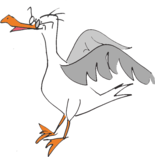
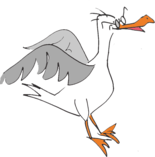
Support for local text, Updated images for Glenn Allow Glenn to change depending on the button pressed

diff --git a/javascript/main.js b/javascript/main.js
@@ -4,6 +4,7 @@ if (!backend.getList) {
 }
 
 var trans = new Translations;
+var text = new Texts;
 var registrator = new Registrator;
 var isLoggedIn = false;
 var isAdmin = false;
@@ -96,9 +97,17 @@ function populateMainContent(what) {
   showingWhat = what;
   backend.getText(what, language, callback);
 
-  function callback(text) {
-    doShow(what, text);
+  function callback(s) {
+    doShow(what, s);
   }
+
+}
+
+function populateMainContent_(what) {
+
+  showingWhat = what;
+  var s = text.get(what, language);
+  doShow(what, s);
 
 }
 
@@ -128,7 +137,7 @@ function populateSubMenu(mnuRows) {
         theme = mnuRow.theme;
         cssClass += " "+theme;
     }
-    var html="<div id='"+mnuRow.id+"' class='"+cssClass+"' title='"+label+"' theme='"+theme+"'>"+label+"</div><br>\n";
+    var html="<div id='"+mnuRow.id+"' class='"+cssClass+"' title='"+label+"' theme='"+theme+"'>"+label+"</div>\n";
     $("#submenu").append(html);
     $('#'+mnuRow.id).click(mnuRow.function);
   }
@@ -214,12 +223,14 @@ function doShowAGM() {
 
 function doShowMensaGbg() {
   menuClose("mnuMensaGbg");
+  changeLogo("kavat");
   changeTheme("default");
   populateMainContent("mensa_gothenburg");
 }
 
 function doShowAboutGbg() {
   menuClose("mnuGothenburg");
+  changeLogo("kavat");
   changeTheme("default");
   populateMainContent("about_gothenburg");
 }
@@ -227,7 +238,7 @@ function doShowAboutGbg() {
 function doShowAboutVasttrafik() {
     
   menuClose("mnuVasttrafik");
-  changeLogo("travolta");
+  changeLogo("kavat");
   changeTheme("default");
   populateMainContent("about_vasttrafik");
 }
@@ -245,6 +256,7 @@ function doShowAboutHotel() {
 
 function doShowActivitiesPage() {
   menuClose("mnuActivities");
+  changeLogo("kavat");
   changeTheme("yellow");
   populateMainContent("members_activities");
 }
@@ -264,6 +276,7 @@ function doShowForgotPasswordPage() {
 
 function doShowContact() {
   menuClose("mnuContact");
+  changeLogo("kavat");
   changeTheme("default");
   if (isLoggedIn) {
     populateMainContent("members_contact");
@@ -274,6 +287,7 @@ function doShowContact() {
 
 function doShowFAQ() {
   menuClose("mnuFAQ");
+  changeLogo("kavat");
   changeTheme("default");
   if (isLoggedIn) {
     populateMainContent("members_FAQ");
@@ -285,6 +299,7 @@ function doShowFAQ() {
 function doShowRegisterPage() {
 
   menuClose("mnuRegister");
+  changeLogo("kavat");
   changeTheme("grey");
   registrator.getHtml(callback);
 
@@ -314,8 +329,8 @@ function doEditClick() {
       break;
     case "save":
       var editor = tinymce.get(id);
-      var text = editor.getContent();
-      backend.setText(textId, language, text);
+      var s = editor.getContent();
+      backend.setText(textId, language, s);
       $(this).html("edit");
       $(".btnEdit").show();
       $("#submenu").show();
@@ -352,7 +367,7 @@ function loginCallback(success) {
         populateMenuMember();
         populateMainContent("members_welcome");
         $("#login").fadeOut();
-        backend.isAdmin(enableEditable);
+        // backend.isAdmin(enableEditable);
         isLoggedIn=true;
         registrator.isLoggedIn(isLoggedIn);
     } else {

diff --git a/javascript/texts.js b/javascript/texts.js
@@ -1,0 +1,70 @@
+function Texts() {
+    
+    var data = {
+        
+        "welcome": {
+            "sv":"<h1>Välkommen till Göteborg den 5 - 8 maj 2016!</h1> \
+<table>\
+<tr><td rowspan='2'><div class='text'>\
+Årsträffen hålls på Scandic Opalen mitt i Göteborg med:<br> \
+&nbsp;&nbsp;&nbsp;● många möteslokaler och gott om samlingsytor<br> \
+&nbsp;&nbsp;&nbsp;● stor lokal för årsmötet, stor restaurang för galamiddagen<br> \
+&nbsp;&nbsp;&nbsp;● fri relaxavdelning även för de som bor på annat håll<br> \
+&nbsp;&nbsp;&nbsp;● fri uppkoppling<br> \
+På promenadavstånd ligger:<br> \
+&nbsp;&nbsp;&nbsp;● Liseberg<br> \
+&nbsp;&nbsp;&nbsp;● Universeum och Världskulturmuséet<br> \
+&nbsp;&nbsp;&nbsp;● Avenyn, Götaplatsen, Konstmuséet, Konserthuset mm<br> \
+<br><b>Kostnad</b><br> \
+<table> \
+<tr><td>Årsmötet, lördagen kl 13 - 16</td><td>ingen kostnad</td></tr> \
+<tr><td>Årsträffen, inkl T-shirt och många av aktiviteterna</td><td>300 kr</td></tr> \
+<tr><td>Galamiddagen (dryck tillkommer)</td><td>500 kr</td></tr> \
+</table> \
+<b>Allt räknas samman åt dig på anmälningssidan…<br> \
+...om du först loggar in med ditt medlemsnummer!</b><div>\
+</td>\
+<td><img src='images/content/welcome1.png'></td></tr>\
+<tr><td><img src='images/content/welcome2.png'></td></tr></table>",
+            "en":"Mensa AG 2016",
+            "de":"Mensa jahrestreffen 2016"
+        },
+        
+        "about_AG": {
+            "sv":"<h1>Mensa årsträff 2016</h1> \
+<table> \
+<tr><td><div class='text'> \
+Mensa Väst, och den närsynte fiskmåsen Glenn, är glada att få hälsa alla mensaner, med eller utan sällskap, välkomna till <br>\
+<br><b>Göteborg den 5 - 8 maj 2016!</b><br> \
+<br>Själva årsmötet hålls lördagen den 6 maj kl 13 - 16 på Scandic Opalen.<br> \
+<br> \
+Hela träffen är förlagd till Scandic Opalen i centrala Göteborg och där har vi även bokat prisvärt boende som ska räcka till alla. \
+Du hittar boende för alla plånböcker under fliken Boende. <br> \
+<br><b>LOGGA IN med ditt medlemsnummer för hela programmet!</br>\
+<div>\
+</td>\
+<td><img src='images/content/welcome2.png'></td></tr></table>",
+            "en":"",
+            "de":""
+        }
+        
+        
+        
+    };
+    
+    // get the text
+    this.get = function(id, lng) {
+
+        var txt = undefined;
+        var entry = data[id];
+        if (entry!==undefined) { 
+            txt = entry[lng];
+            if (txt===undefined) txt = entry['sv'];
+        }
+        if (txt===undefined) txt = "["+id+"]["+lng+"]";
+        return txt;
+
+    };
+    
+    
+}

diff --git a/designs/02/design02.js b/designs/02/design02.js
@@ -2,6 +2,7 @@
 contains the javascript methods that are design specific
 */
 var lastSelectedButtonId;
+var lastLogoName;
 
 var themes = {
     "default":["#1ADFEF","#16C0CE"],
@@ -71,9 +72,12 @@ function changeTheme(theme) {
 }
 
 function changeLogo(name) {
-    $('#logo').fadeOut();
-    var html="<img src='images/glenn/"+name+".png' >";
-    setTimeout(function() {$('#logo').html(html).fadeIn(500)}, 500);
+    if (name!==lastLogoName) {
+        $('#logo').fadeOut();
+        var html="<img src='images/glenn/"+name+".png' >";
+        setTimeout(function() {$('#logo').html(html).fadeIn(500)}, 500);
+        lastLogoName = name;
+    }
 }
 
 

diff --git a/design02.html b/design02.html
@@ -35,6 +35,7 @@
         <script src="javascript/tour.js"></script> 
 
         <script src="javascript/translations.js"></script>
+        <script src="javascript/texts.js"></script>
         <script src="javascript/registration.js"></script>
         <script src="javascript/hotel-data.js"></script>
         <script src="designs/02/design02.js"></script>

diff --git a/design01.html b/design01.html
@@ -32,6 +32,7 @@
     <script src="javascript/alertify.min.js"></script>
 
     <script src="javascript/translations.js"></script>
+    <script src="javascript/texts.js"></script>
     <script src="javascript/registration.js"></script>
     <script src="javascript/hotel-data.js"></script>
     <script src="designs/01/design01.js"></script>

diff --git a/css/main.css b/css/main.css
@@ -136,6 +136,7 @@ table {
     padding: 5px;
     font-size: 11px;
     transition-duration: .5s;
+    margin-bottom: 8px;
     z-index: 9;
 }
 
@@ -225,6 +226,10 @@ table {
 .info {
     font-size: small;
     color: grey;
+}
+
+.text {
+    line-height: 150%;
 }
 
 #logo {
